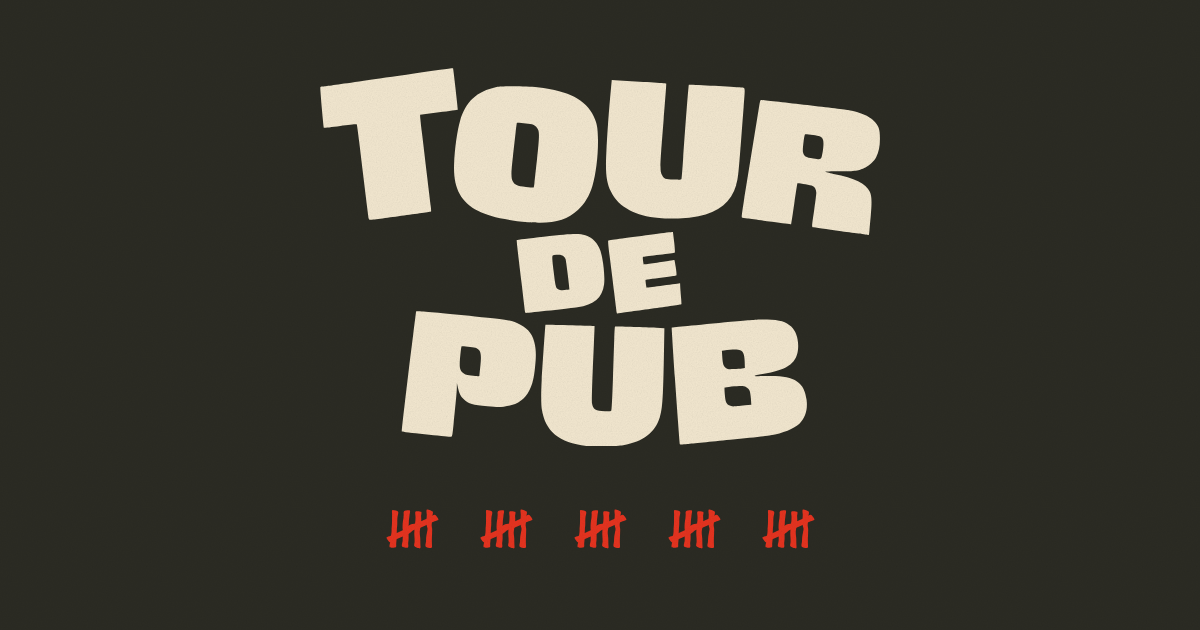
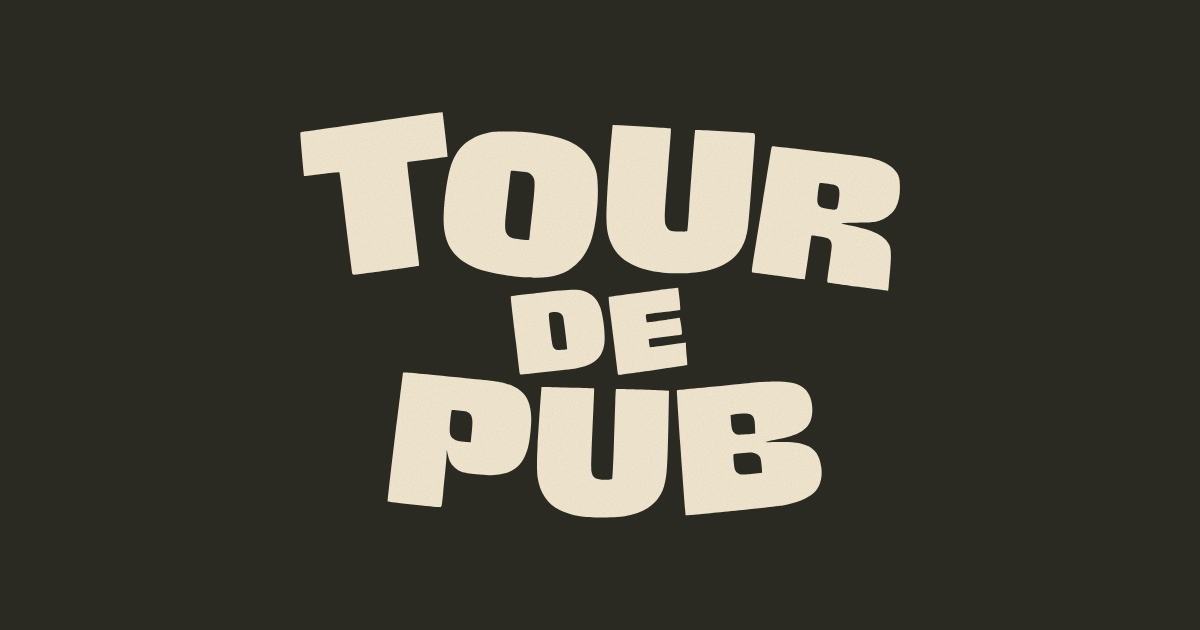
Náhled odkazu bez čárek, jen značka
Řádka červených čárek pod logem šla pryč. V seznamu zpráv je náhled malý
a každá další věc v něm ubírá té jediné, kterou si má člověk s appkou
spojit. Zbylo logo na podkladu appky a tiskové zrno přes to.

?v= posunuto na 2, jinak by si WhatsApp i iMessage držely tu starou verzi
s čárkami.

Claude-Session: https://claude.ai/code/session_01UUgsEmWt8hq4EmpgB6J2pg

Changed region(s): [[0.2467, 0.0905, 0.7708, 0.8746]]

diff --git a/index.html b/index.html
@@ -16,15 +16,15 @@
 <meta property="og:title" content="Tour de Pub | Brno">
 <meta property="og:description" content="Zapisování čárek při Tour de Pub: devět brněnskejch špeluněk, úkoly a pořadí part.">
 <meta property="og:url" content="https://betelnarezba.cz/">
-<meta property="og:image" content="https://betelnarezba.cz/nahled.png?v=1">
+<meta property="og:image" content="https://betelnarezba.cz/nahled.png?v=2">
 <meta property="og:image:type" content="image/png">
 <meta property="og:image:width" content="1200">
 <meta property="og:image:height" content="630">
-<meta property="og:image:alt" content="Značka Tour de Pub a pět čárek">
+<meta property="og:image:alt" content="Značka Tour de Pub">
 <meta name="twitter:card" content="summary_large_image">
 <meta name="twitter:title" content="Tour de Pub | Brno">
 <meta name="twitter:description" content="Zapisování čárek při Tour de Pub: devět brněnskejch špeluněk, úkoly a pořadí part.">
-<meta name="twitter:image" content="https://betelnarezba.cz/nahled.png?v=1">
+<meta name="twitter:image" content="https://betelnarezba.cz/nahled.png?v=2">
 <!-- Tmavé schéma se musí říct hlavičkou, ne až stylem. app.css se schválně
      načítá neblokujícím způsobem (media="print", viz stylNeblokuje() ve
      vite.config.ts), takže `color-scheme: dark` v něm dorazí až po prvním
